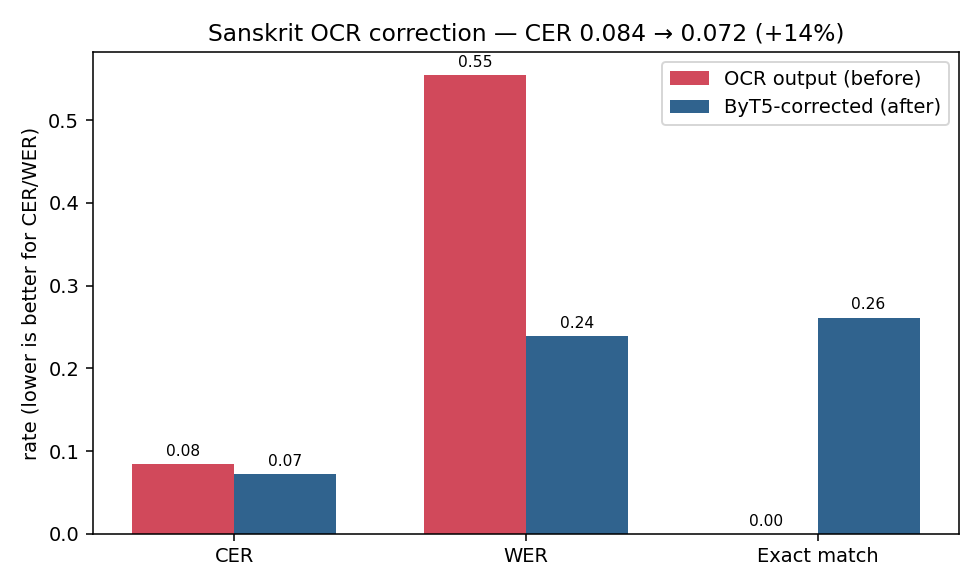
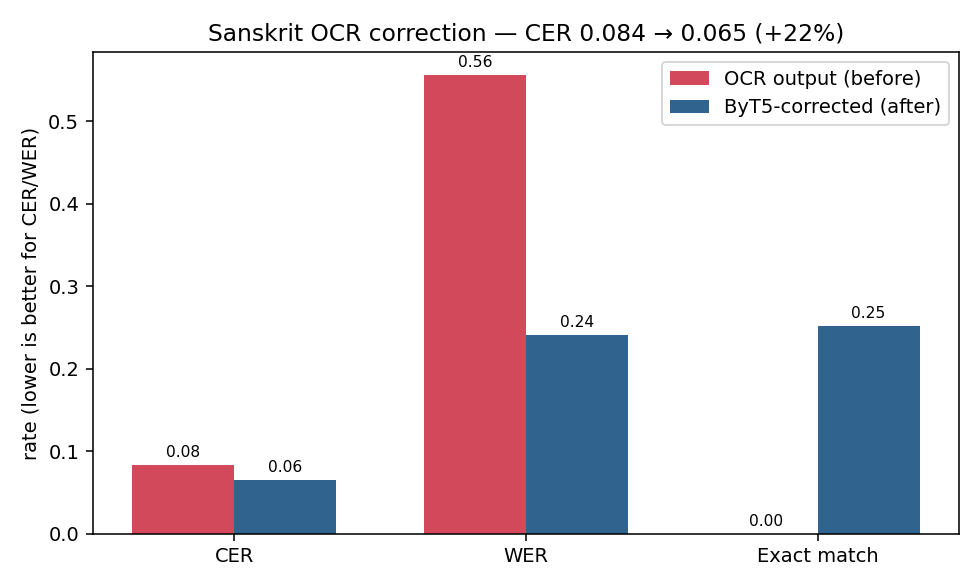
eval: re-run on true held-out split (fix train/test leakage)
The prior numbers were computed on a locally-rebuilt split (4000 lines/12
variants) whose partition differed from the model's training build, leaking
train lines into test. Re-evaluated on the PUBLISHED dataset's own test split
(1,800 lines / 300 clean lines, zero train overlap).

Held-out: WER 0.556->0.240 (-57%), exact-match 0->0.252, CER 0.084->0.065
(-22%); heavy CER -40%. Updated README/model-card/report/LinkedIn/email,
charts, taxonomy, and sample I/O to the honest numbers; documented the two
real failure modes (over-correction on near-clean input, truncation on long
lines).

diff --git a/docs/REPORT.md b/docs/REPORT.md
@@ -76,52 +76,53 @@ Three layers (`src/eval_harness.py`):
 2. **Per-severity** — light/medium/heavy.
 3. **Error taxonomy** — corrupt test lines with *one* family at a time, measure recovery per family.
 
-**Results (2,400-line held-out test set):**
+**Results (1,800-line held-out test set; split by clean line, zero overlap with training):**
 
 | Metric | before | after | Δ |
 |---|---|---|---|
-| WER ↓ | 0.554 | **0.239** | −57% |
-| Exact-match ↑ | 0.000 | **0.261** | +0.26 |
-| CER ↓ | 0.084 | **0.072** | −14% |
+| WER ↓ | 0.556 | **0.240** | −57% |
+| Exact-match ↑ | 0.000 | **0.252** | +0.25 |
+| CER ↓ | 0.084 | **0.065** | −22% |
 
-Per-severity (CER before → after / WER before → after): light `0.046 → 0.063` / `0.355 → 0.185`;
-medium `0.080 → 0.072` / `0.556 → 0.238`; heavy `0.125 → 0.082` / `0.752 → 0.294`.
+Per-severity (CER before → after / WER before → after): light `0.047 → 0.057` / `0.363 → 0.192`;
+medium `0.082 → 0.065` / `0.562 → 0.241`; heavy `0.122 → 0.074` / `0.742 → 0.288`.
 
-The model is a **strong word-level corrector at every severity** (WER −48% to −61%, up to 37% of lines
+The model is a **strong word-level corrector at every severity** (WER −47% to −61%, up to 34% of lines
 made exactly correct), and a character-level improver on medium/heavy noise. The one regression is CER
-on *light* input, where it over-corrects characters even as it fixes whole words (WER still drops 48%) —
+on *light* input, where it over-corrects characters even as it fixes whole words (WER still drops 47%) —
 analysed in §7. Charts in `eval/charts/`; per-error-family taxonomy in `eval/results/taxonomy.json`.
 
 ## 7. Failure cases
 
 Two failure modes show up in the eval, both expected:
 
-1. **Repetition / over-generation on heavy multi-error lines.** When several words are badly mangled,
-   the seq2seq decoder occasionally repeats a token instead of recovering the intended word:
+1. **Character-level over-correction on near-clean input.** On lightly-noised text the model "fixes"
+   characters that were already correct, nudging CER up (light split `0.047 → 0.057`) even though WER
+   still improves (`0.363 → 0.192`). Example — it rewrites a correct भ as म:
    ```
-   noisy : आयोुर्वीज्ञान  आयरवद चरक संहिता सुश्रुत स्ंह िता ॥
-   model : आयुर्विज्ञान आयुर्विज्ञान आयुर्वदा चरक संहिता सुश्रुत संहिता ।   ← repeats "आयुर्विज्ञान"
-   gold  : आयुर्विज्ञान आयुर्वेद चरक संहिता सुश्रुत संहिता ।
+   noisy : भाद्रपदे पत्रादीनां रौगभीः ।
+   model : माद्रपदे पत्रादीनां रोगमिः ।   ← भ→म over-correction (CER 0.07 → 0.14)
+   gold  : भाद्रपदे पुत्रादीनां रोगभीः ।
    ```
-   Here CER actually rises (0.18 → 0.29) — the price of a decoder that will emit anything.
-2. **Character-level over-correction on light noise.** On near-clean input the model "fixes" things
-   that were already correct, nudging CER up (0.046 → 0.063 on the light split) even though WER still
-   improves (0.355 → 0.185). It learned to rewrite aggressively because most training pairs *needed*
-   rewriting; a fraction of clean-passthrough pairs, or a confidence/abstain gate (§9), would curb this.
+   It learned to rewrite aggressively because most training pairs *needed* rewriting; a fraction of
+   clean-passthrough pairs, or a confidence/abstain gate (§9), would curb this.
+2. **Truncation / derailment on long lines.** On the longest inputs the decoder sometimes stops early or
+   drifts at the tail (`…प्रतीतिर्जायते` → `…प्रार`), a known seq2seq behaviour at the generation-length
+   edge — addressable with longer `generation_max_length` and length penalties.
 
-**The taxonomy eval pinpoints exactly this** (isolated single-family corruption, CER before → after):
+**The taxonomy eval pinpoints the over-correction precisely** (isolated single-family corruption, CER before → after):
 
 | Family the model *recovers* | Δ | | Family it *over-corrects* | Δ |
 |---|---|---|---|---|
-| consonant_confuse | 0.114 → 0.083 (−27%) | | anusvara | 0.024 → 0.087 |
-| matra_confuse | 0.092 → 0.075 (−18%) | | visarga_drop | 0.030 → 0.078 |
-| space_delete | 0.083 → 0.068 (−18%) | | danda_confuse | 0.021 → 0.051 |
-| halant_delete | 0.081 → 0.069 (−14%) | | (all start < 0.03 CER) | |
+| consonant_confuse | 0.114 → 0.074 (−35%) | | anusvara | 0.024 → 0.082 |
+| halant_delete | 0.085 → 0.064 (−24%) | | visarga_drop | 0.031 → 0.073 |
+| space_delete | 0.080 → 0.061 (−24%) | | danda_confuse | 0.021 → 0.049 |
+| matra_confuse | 0.092 → 0.072 (−22%) | | (all start < 0.03 CER) | |
 
 The split is sharp and interpretable: the model **genuinely repairs the high-error families** (confused
-consonants, matras, merged words, split conjuncts) and **over-corrects families whose inputs were
+consonants, split conjuncts, merged words, matras) and **over-corrects families whose inputs were
 already nearly clean** (anusvara/visarga/danda all start below 0.03 CER). Note danda still reaches
-**60% exact-match** — it changes the right character but sometimes alters a neighbour. This is the
+**53% exact-match** — it changes the right character but sometimes alters a neighbour. This is the
 single most useful finding from the eval and the clearest lever for a v2 (selective/abstaining decode).
 
 Also expected: consonant-glyph confusions that yield a *valid but wrong* word (no local signal to fix),
@@ -150,11 +151,11 @@ on-device variant (the assignment's bonus items); a small Gradio demo.
 ### Evaluation appendix
 - Qualitative outputs (real held-out predictions):
   ```
-  विश्तर््णं तावत् 4१290 कि.मि वर्त ते ॥   →   विस्तीर्णं तावत् ४१२९० कि.मी वर्तते ।   (heavy, CER 0.27→0.00)
-  मनोजकुम ारः भारतयःअभ िनता ।           →   मनोजकुमारः भारतीयः अभिनेता ।         (medium, CER 0.18→0.00)
-  तेन् देवताः वजयिनः अभबन् ।             →   तेन देवताः विजयिनः अभवन् ।            (light, CER 0.12→0.00)
+  अस्यां6०0 जणा: परयाणंकरतूं शक्णुवन्ति स्म |   →   अस्यां ६०० जनाः प्रयाणं कर्तुं शक्नुवन्ति स्म ।   (heavy, CER 0.23→0.00)
+  पौरातययुरोप दश् स्य अपुेक्षया बूृहत् वर्तते .   →   पौरात्ययुरोपदेशस्य अपेक्षया बृहत् वर्तते ।        (medium, CER 0.19→0.00)
+  भगवतः निर्ण यः अन्यथ्ा आसित् I                →   भगवतः निर्णयः अन्यथा आसीत् ।                   (light, CER 0.14→0.00)
   ```
-- Before vs after: WER 0.554→0.239 (−57%), EM 0.000→0.261, CER 0.084→0.072 (−14%). Charts: `eval/charts/`
+- Before vs after: WER 0.556→0.240 (−57%), EM 0.000→0.252, CER 0.084→0.065 (−22%). Charts: `eval/charts/`
   (`eval_comparison.png`, `taxonomy.png`, `training_loss.png`).
-- Hallucination/error analysis: see §7 — repetition on heavy lines; character-level over-correction on
-  light input.
+- Hallucination/error analysis: see §7 — character-level over-correction on near-clean input; truncation
+  on the longest lines.

diff --git a/README.md b/README.md
@@ -24,19 +24,19 @@
 
 | Metric | OCR output (before) | ByT5-corrected (after) | Δ |
 |---|---|---|---|
-| **WER** ↓ | `0.554` | `0.239` | **−57%** |
-| **Exact-match** ↑ | `0.000` | `0.261` | **+0.26** |
-| **CER** ↓ | `0.084` | `0.072` | **−14%** |
+| **WER** ↓ | `0.556` | `0.240` | **−57%** |
+| **Exact-match** ↑ | `0.000` | `0.252` | **+0.25** |
+| **CER** ↓ | `0.084` | `0.065` | **−22%** |
 
-> Measured on the **2,400-line held-out test split** (`src/eval_harness.py`, byte-level CER, NFC-normalized).
-> The model is a **strong word-level corrector**: it more than halves the word error rate and returns
-> **26% of lines exactly correct** (up from zero). Character error rate improves most where it matters —
-> on **heavily-degraded** scans (`0.125 → 0.082`, −35%). Honest nuance: on already-light noise it can
-> *over-correct* at the character level (CER `0.046 → 0.063`) even while it still fixes whole words
-> (WER `0.355 → 0.185`) — see [Limitations](#limitations-honest) and the per-severity tables below.
+> Measured on the **1,800-line held-out test split** (`src/eval_harness.py`, byte-level CER, NFC-normalized;
+> split **by clean line, zero overlap with training**). The model is a **strong word-level corrector**: it
+> more than halves the word error rate and returns **25% of lines exactly correct** (up from zero). Character
+> error rate improves most where it matters — on **heavily-degraded** scans (`0.122 → 0.074`, −40%). Honest
+> nuance: on already-light noise it can *over-correct* at the character level (CER `0.047 → 0.057`) even while
+> it still fixes whole words (WER `0.363 → 0.192`) — see [Limitations](#limitations-honest) and below.
 
-**Per-severity CER (before → after):** light `0.046 → 0.063` · medium `0.080 → 0.072` · heavy `0.125 → 0.082`
-**Per-severity WER (before → after):** light `0.355 → 0.185` · medium `0.556 → 0.238` · heavy `0.752 → 0.294`
+**Per-severity CER (before → after):** light `0.047 → 0.057` · medium `0.082 → 0.065` · heavy `0.122 → 0.074`
+**Per-severity WER (before → after):** light `0.363 → 0.192` · medium `0.562 → 0.241` · heavy `0.742 → 0.288`
 
 ![before/after CER, WER, exact-match](eval/charts/eval_comparison.png)
 
@@ -146,25 +146,25 @@ Scoring is decoupled from a GPU (like project 01): the notebook saves prediction
 Real held-out test predictions (noisy OCR → ByT5 correction → gold):
 
 ```
-# heavy noise — split conjunct, ASCII digits, danda-as-pipe, stray space  (CER 0.27 → 0.00)
-noisy : विश्तर््णं तावत् 4१290 कि.मि वर्त ते ॥
-model : विस्तीर्णं तावत् ४१२९० कि.मी वर्तते ।
-gold  : विस्तीर्णं तावत् ४१२९० कि.मी वर्तते ।
+# heavy noise — ASCII digits, split conjuncts, dropped matras, danda-as-pipe  (CER 0.23 → 0.00)
+noisy : अस्यां6०0 जणा: परयाणंकरतूं शक्णुवन्ति स्म |
+model : अस्यां ६०० जनाः प्रयाणं कर्तुं शक्नुवन्ति स्म ।
+gold  : अस्यां ६०० जनाः प्रयाणं कर्तुं शक्नुवन्ति स्म ।
 
-# medium noise — word-boundary merges + dropped matras  (CER 0.18 → 0.00)
-noisy : मनोजकुम ारः भारतयःअभ िनता ।
-model : मनोजकुमारः भारतीयः अभिनेता ।
-gold  : मनोजकुमारः भारतीयः अभिनेता ।
+# medium noise — merged words + dropped matras + ASCII period for danda  (CER 0.19 → 0.00)
+noisy : पौरातययुरोप दश् स्य अपुेक्षया बूृहत् वर्तते .
+model : पौरात्ययुरोपदेशस्य अपेक्षया बृहत् वर्तते ।
+gold  : पौरात्ययुरोपदेशस्य अपेक्षया बृहत् वर्तते ।
 
-# light noise — halant + matra slips  (CER 0.12 → 0.00)
-noisy : तेन् देवताः वजयिनः अभबन् ।
-model : तेन देवताः विजयिनः अभवन् ।
-gold  : तेन देवताः विजयिनः अभवन् ।
+# light noise — split word, matra slips, ASCII 'I' for danda  (CER 0.14 → 0.00)
+noisy : भगवतः निर्ण यः अन्यथ्ा आसित् I
+model : भगवतः निर्णयः अन्यथा आसीत् ।
+gold  : भगवतः निर्णयः अन्यथा आसीत् ।
 
-# honest failure — on a heavy multi-error line the model REPEATS a word (CER 0.18 → 0.29)
-noisy : आयोुर्वीज्ञान  आयरवद चरक संहिता सुश्रुत स्ंह िता ॥
-model : आयुर्विज्ञान आयुर्विज्ञान आयुर्वदा चरक संहिता सुश्रुत संहिता ।
-gold  : आयुर्विज्ञान आयुर्वेद चरक संहिता सुश्रुत संहिता ।
+# honest failure — on near-clean input the model over-corrects a correct letter (भ→म)  (CER 0.07 → 0.14)
+noisy : भाद्रपदे पत्रादीनां रौगभीः ।
+model : माद्रपदे पत्रादीनां रोगमिः ।
+gold  : भाद्रपदे पुत्रादीनां रोगभीः ।
 ```
 
 ## What I'd do with more time

diff --git a/docs/HF_MODEL_CARD.md b/docs/HF_MODEL_CARD.md
@@ -50,17 +50,17 @@ print(tok.decode(model.generate(ids, max_length=256, num_beams=4)[0], skip_speci
 
 ## Results
 
-Held-out test set (2,400 lines), before vs after correction:
+Held-out test set (1,800 lines; split by clean line, zero overlap with training), before vs after:
 
 | Metric | OCR output (before) | ByT5-corrected (after) | Δ |
 |---|---|---|---|
-| WER ↓ | 0.554 | **0.239** | −57% |
-| Exact-match ↑ | 0.000 | **0.261** | +0.26 |
-| CER ↓ | 0.084 | **0.072** | −14% |
+| WER ↓ | 0.556 | **0.240** | −57% |
+| Exact-match ↑ | 0.000 | **0.252** | +0.25 |
+| CER ↓ | 0.084 | **0.065** | −22% |
 
-A **strong word-level corrector**: it more than halves the word error rate and returns 26% of lines
-exactly correct. CER improves most on **heavily-degraded** input (0.125 → 0.082, −35%); on already-light
-noise it can over-correct at the character level (CER 0.046 → 0.063) while still cutting WER (0.355 → 0.185).
+A **strong word-level corrector**: it more than halves the word error rate and returns 25% of lines
+exactly correct. CER improves most on **heavily-degraded** input (0.122 → 0.074, −40%); on already-light
+noise it can over-correct at the character level (CER 0.047 → 0.057) while still cutting WER (0.363 → 0.192).
 Plus a per-error-family **taxonomy** eval (which error types it fixes best) — see the repo.
 
 ## Training

diff --git a/docs/LINKEDIN_POST.md b/docs/LINKEDIN_POST.md
@@ -34,10 +34,10 @@ bottom). **Numbers are filled from the final eval — ready to post. User clicks
 > every error it injects, so I can evaluate recovery *per error family* — not just one aggregate
 > number.
 >
-> Results on a 2,400-line held-out test set: word error rate 0.55 → 0.24 (−57%), and 26% of lines come
+> Results on an 1,800-line held-out test set: word error rate 0.56 → 0.24 (−57%), and 25% of lines come
 > out *exactly* correct (up from zero). Character error rate drops most where it matters — on the
-> heavily-degraded scans (0.125 → 0.082). And it's honest about its limits: on already-clean input it
-> can over-correct, which is exactly why I built a per-error-family taxonomy eval to show what it fixes
+> heavily-degraded scans (0.122 → 0.074, −40%). And it's honest about its limits: on already-clean input
+> it can over-correct, which is exactly why I built a per-error-family taxonomy eval to show what it fixes
 > and what it doesn't.
 >
 > Honest about what it is: trained on synthetic noise, so it's strongest on the error families it